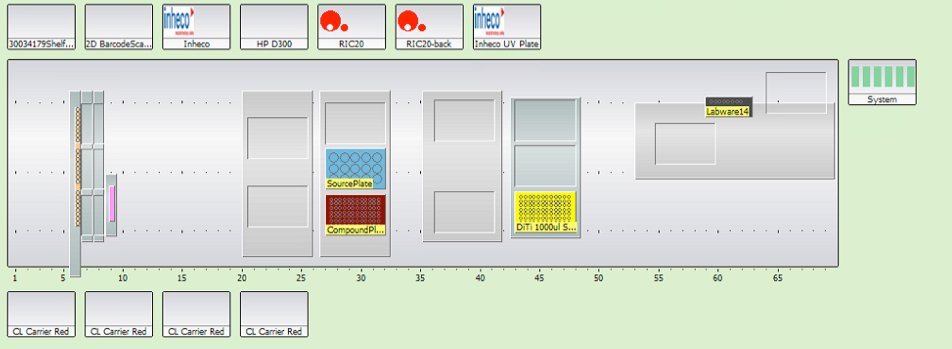
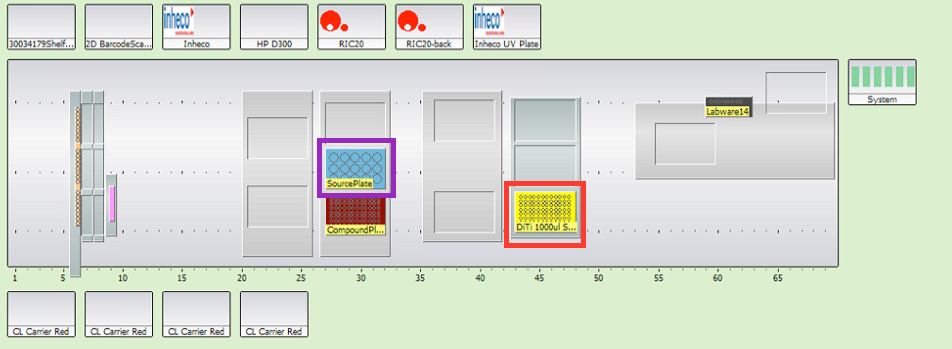
Modified Compound_Stock_Plate_Preparation/img/EVO_deck.png

Changed region(s): [[0.5179, 0.5158, 0.6397, 0.7163], [0.3351, 0.3725, 0.4265, 0.5731]]

diff --git a/Compound_Stock_Plate_Preparation/Compound_Stock_Plate_Preparation.md b/Compound_Stock_Plate_Preparation/Compound_Stock_Plate_Preparation.md
@@ -12,6 +12,6 @@ This protocol fills 4ti0110 plates with 10mM DMSO stocks. The plate then gets se
 
 - Run maintenance script MAINT_Wash on EVO.
 - Place 1 clean 4ti_0110 (96 well, clear plate) in the Stack 4 of the cytomat (Nest 1). 
-- Place 1000uL SBS DiTis in the 43 position of EVO.
-- Place the 10mM DMSO stock vial holder (Source Plate) in the 27 postion of EVO. 
+- Place 1000uL SBS DiTis in the 43 position of EVO. (Red rectangle) 
+- Place the 10mM DMSO stock vial holder (Source Plate) in the 27 postion of EVO. (Purple rectangle)
 
